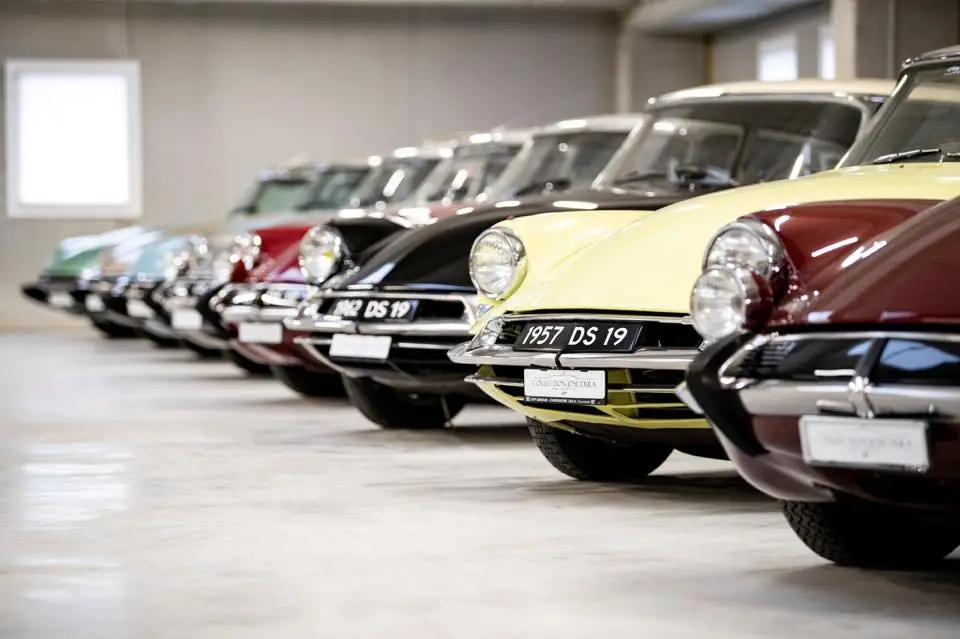
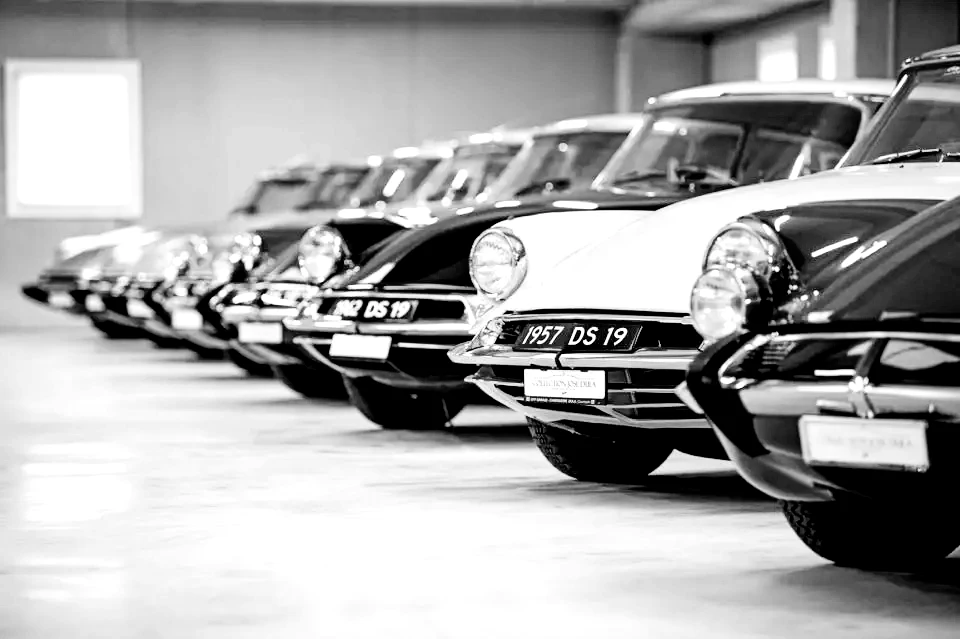
cars page cover edited

diff --git a/pages/cars/index.js b/pages/cars/index.js
@@ -23,7 +23,7 @@ export default function carsForSale({ cars, serverUrl }) {
             className="absolute top-0 w-full h-full bg-center bg-cover"
             style={{
               backgroundImage:
-                "url('/img/image_ds.webp')",
+                "url('/img/citroen_ds_garrage.webp')",
             }}
           >
             <span
@@ -64,14 +64,14 @@ export default function carsForSale({ cars, serverUrl }) {
               y="0"
             >
               <polygon
-                className="text-blueGray-800 fill-current"
+                className="text-blueGray-200 fill-current"
                 points="2560 0 2560 100 0 100"
               ></polygon>
             </svg>
           </div>
         </div>
 
-        <section className="pb-20 bg-blueGray-800 -mt-72">
+        <section className="pb-20 bg-blueGray-200">
           <div className="container mx-auto px-4">
             <div className="flex flex-wrap">
             <div className="relative flex flex-col min-w-0 break-words w-full mb-8 rounded-lg">

diff --git a/styles/tailwind.css b/styles/tailwind.css
@@ -1640,6 +1640,18 @@ select {
   margin-top: -18rem;
 }
 
+.mt-72 {
+  margin-top: 18rem;
+}
+
+.-mt-80 {
+  margin-top: -20rem;
+}
+
+.-mt-60 {
+  margin-top: -15rem;
+}
+
 .block {
   display: block;
 }
